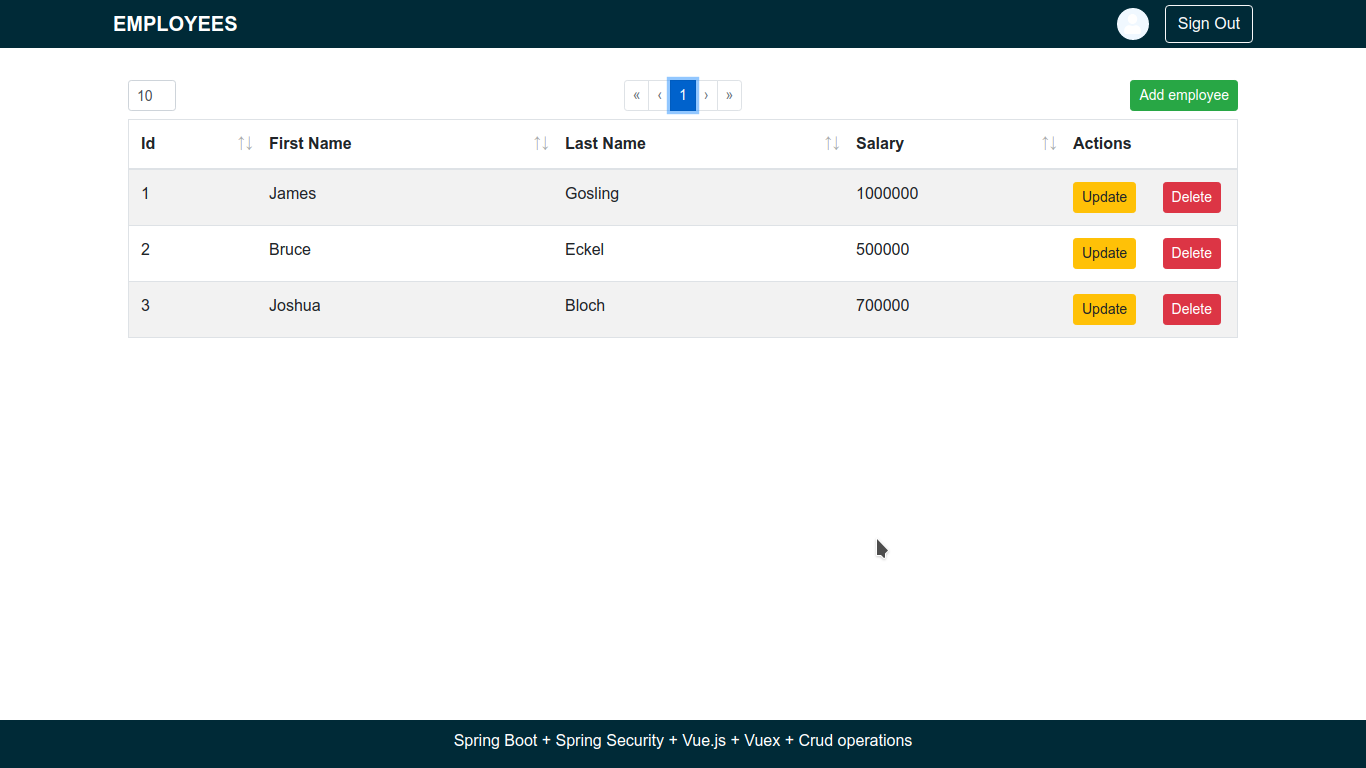
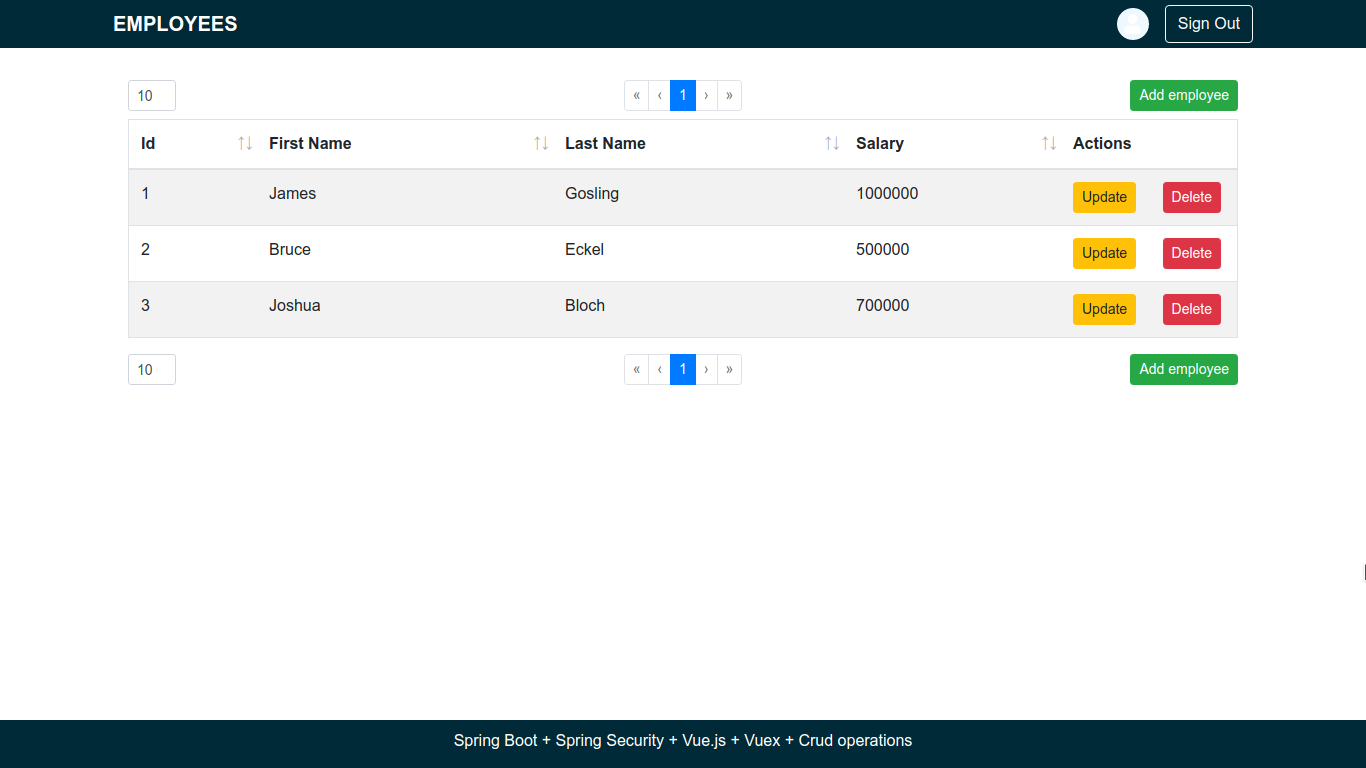
screenshot

diff --git a/frontend/src/views/general/Employees.vue b/frontend/src/views/general/Employees.vue
@@ -51,6 +51,21 @@
             </template>
         </b-table>
 
+        <div class="w-100 my-2 d-flex">
+            <div class="w-25">
+                <b-form-input v-model="size" class="w-3rem" size="sm" type="text" placeholder="Enter size" />
+            </div>
+            <div class="w-50">
+                <b-pagination-nav v-model="currentPage" size="sm" :use-router="true" align="center"
+                                  :link-gen="linkGen" :number-of-pages="totalPages" />
+            </div>
+            <div class="w-25">
+                <b-button size="sm" @click="showAddModal" class="float-right" variant="success">
+                    Add employee
+                </b-button>
+            </div>
+        </div>
+
         <b-modal ref="modalAdd" centered @hide="resetAddModal" title="Add employee ...">
             <b-container style="padding-bottom: 10%;">
                 <b-row class="mb-1">
